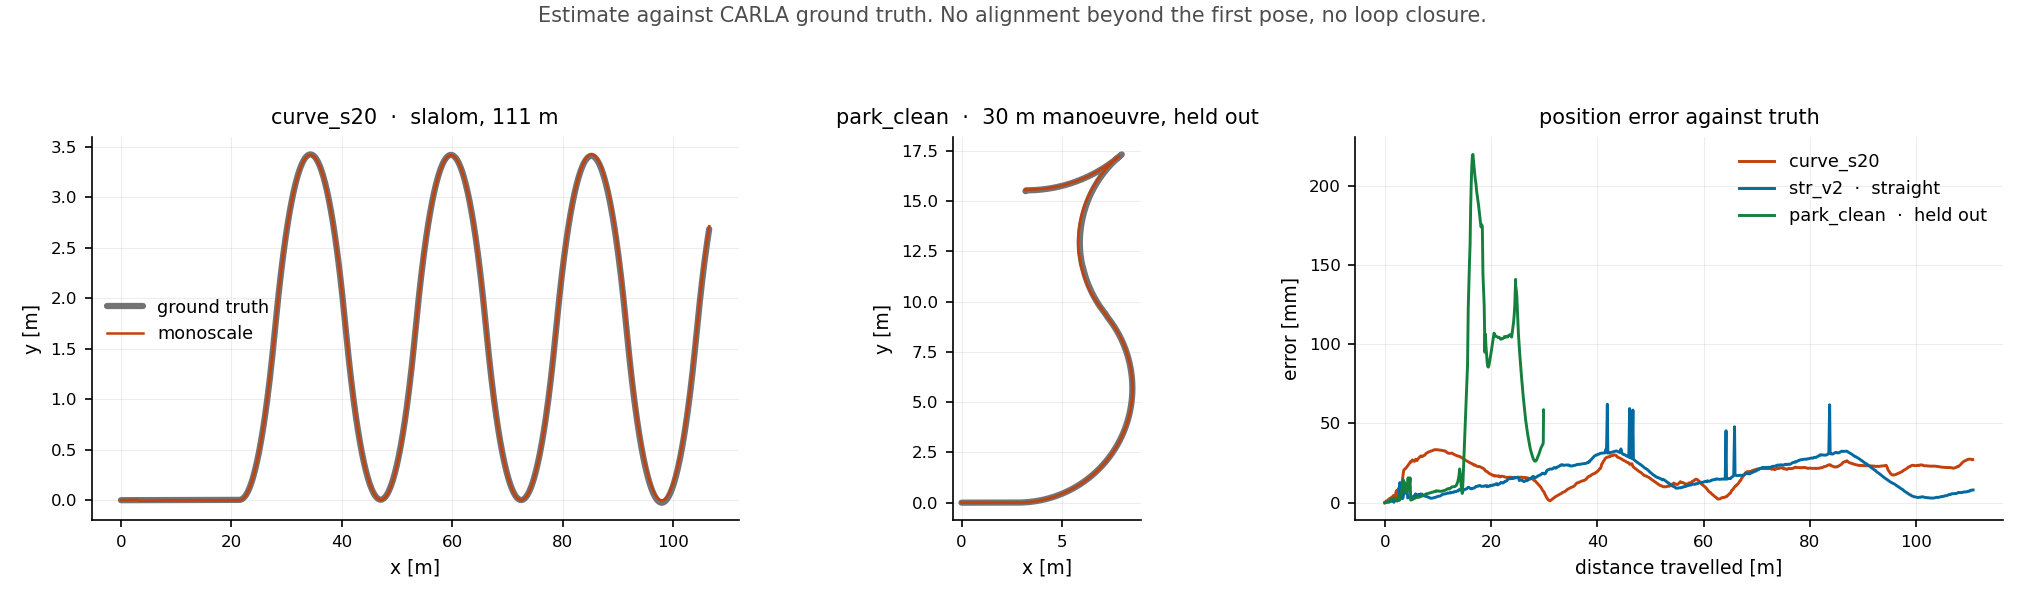
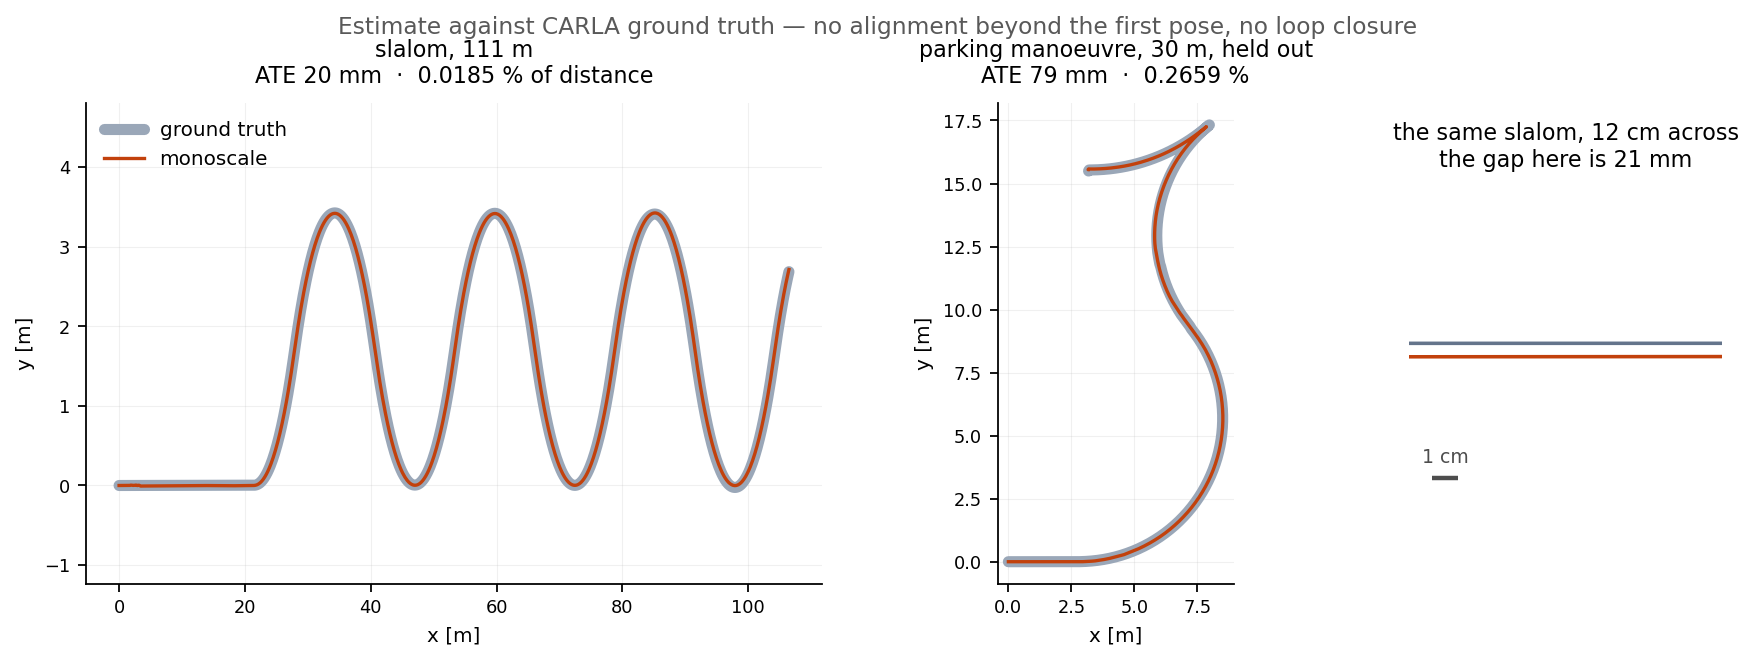
Make the figure show that the error is small, and make it reproducible
The first figure had three panels and the third was a plot of absolute error
against distance, which put a 210 mm spike from the held-out drive at the centre
of the image. The error became the subject. That is the opposite of what the
picture is for, and it was also ugly: equal aspect on a 111 m by 3 m slalom
squashed it to a sliver with the text on top of it.

What it does now. Two panels carry the trajectories at their own scale, where
the estimate and the truth are one line -- which is the result, and which on its
own proves nothing a reader can size. The third zooms until the gap is visible,
puts a scale bar next to it, and says how many millimetres it is: 12 cm across,
a 21 mm gap, a 1 cm bar. Shown rather than asserted, and not flattered -- the
window is chosen from the local error itself, at the point where it is closest
to the drive's own ATE, so it is a typical gap and not the best one.

`plot_trajectories.py` goes into the evaluation package with it. Every other
number in this repository carries the measurement that made it, and a figure
with no script would have been the only thing a reader has to take on trust. It
reads the `.tum` pairs `monoscale_replay --tum` already writes and recomputes
the numbers it prints.

Claude-Session: https://claude.ai/code/session_012ZQwX673naCXfk7whmXv1s

diff --git a/src/monoscale_evaluation/monoscale_evaluation/plot_trajectories.py b/src/monoscale_evaluation/monoscale_evaluation/plot_trajectories.py
@@ -1,0 +1,150 @@
+"""The figure on the front page, from the trajectories the benchmark produces.
+
+Everything else in this repository carries the measurement that made it, and a
+picture with no script would be the one thing a reader has to take on trust. So
+this is here, it reads the same `.tum` pairs `monoscale_replay --tum` writes,
+and it recomputes the numbers it prints rather than being handed them.
+
+    python3 plot_trajectories.py <slalom_dir> <park_dir> <out.png>
+
+Three panels, and the third is the point. At the scale of a 111 m drive the
+estimate and the truth are one line, which says nothing a reader can size; the
+third panel zooms until the gap is visible and puts a scale bar next to it, so
+the error is shown rather than asserted. The window is chosen from the local
+error itself -- six times it -- so the panel neither flatters the result by
+zooming out nor exaggerates it by zooming in.
+"""
+import sys
+
+import numpy as np
+
+TRUTH = '#9aa7b8'
+ESTIMATE = '#c2410c'
+
+
+def load(path):
+    """x, y out of a TUM-format trajectory."""
+    out = []
+    for line in open(path):
+        if line.startswith('#'):
+            continue
+        field = line.split()
+        if len(field) >= 3:
+            out.append((float(field[1]), float(field[2])))
+    return np.array(out)
+
+
+def pair(directory):
+    """Estimate and truth from one output directory, both from their first pose.
+
+    No alignment beyond that: the first pose is the common origin and everything
+    after it is what the estimator produced.
+    """
+    estimate = load(f'{directory}/estimate.tum')
+    truth = load(f'{directory}/truth.tum')
+    count = min(len(estimate), len(truth))
+    estimate, truth = estimate[:count], truth[:count]
+    return estimate - estimate[0], truth - truth[0]
+
+
+def errors(estimate, truth):
+    return np.hypot(estimate[:, 0] - truth[:, 0], estimate[:, 1] - truth[:, 1])
+
+
+def ate(estimate, truth):
+    return float(np.sqrt((errors(estimate, truth) ** 2).mean()))
+
+
+def travelled(truth):
+    return float(np.hypot(np.diff(truth[:, 0]), np.diff(truth[:, 1])).sum())
+
+
+def main(argv):
+    if len(argv) != 4:
+        print(__doc__)
+        return 1
+    slalom_dir, park_dir, out = argv[1], argv[2], argv[3]
+
+    import matplotlib
+    matplotlib.use('Agg')
+    import matplotlib.pyplot as plt
+
+    figure = plt.figure(figsize=(13.2, 3.9))
+    grid = figure.add_gridspec(1, 3, width_ratios=[2.35, 1.0, 1.0], wspace=0.30)
+    wide, square, close = (figure.add_subplot(grid[i]) for i in range(3))
+
+    estimate, truth = pair(slalom_dir)
+    wide.plot(truth[:, 0], truth[:, 1], color=TRUTH, lw=5.0,
+              solid_capstyle='round', label='ground truth')
+    wide.plot(estimate[:, 0], estimate[:, 1], color=ESTIMATE, lw=1.5,
+              label='monoscale')
+    distance = travelled(truth)
+    wide.set_title(
+        f'slalom, {distance:.0f} m\n'
+        f'ATE {ate(estimate, truth) * 1000:.0f} mm  ·  '
+        f'{ate(estimate, truth) / distance * 100:.4f} % of distance',
+        fontsize=10, pad=9)
+    wide.legend(fontsize=9, frameon=False, loc='upper left')
+    span = truth[:, 1].max() - truth[:, 1].min()
+    wide.set_ylim(truth[:, 1].min() - 0.35 * span, truth[:, 1].max() + 0.40 * span)
+
+    held, held_truth = pair(park_dir)
+    square.plot(held_truth[:, 0], held_truth[:, 1], color=TRUTH, lw=5.0,
+                solid_capstyle='round')
+    square.plot(held[:, 0], held[:, 1], color=ESTIMATE, lw=1.5)
+    square.set_aspect('equal')
+    held_distance = travelled(held_truth)
+    square.set_title(
+        f'parking manoeuvre, {held_distance:.0f} m, held out\n'
+        f'ATE {ate(held, held_truth) * 1000:.0f} mm  ·  '
+        f'{ate(held, held_truth) / held_distance * 100:.4f} %',
+        fontsize=10, pad=9)
+
+    # Where the local error is closest to the drive's own ATE, so the zoom shows
+    # a typical gap rather than the best or the worst of it.
+    local = errors(estimate, truth)
+    at = int(np.argmin(np.abs(local - ate(estimate, truth))))
+    half = 3.0 * local[at]
+    cx, cy = truth[at, 0], truth[at, 1]
+    close.plot(truth[:, 0], truth[:, 1], color='#64748b', lw=1.6)
+    close.plot(estimate[:, 0], estimate[:, 1], color=ESTIMATE, lw=1.6)
+    close.set_xlim(cx - half, cx + half)
+    close.set_ylim(cy - half, cy + half)
+    close.set_aspect('equal')
+    close.set_title(
+        f'the same slalom, {2 * half * 100:.0f} cm across\n'
+        f'the gap here is {local[at] * 1000:.0f} mm',
+        fontsize=10, pad=9)
+    bar = 10.0 ** np.floor(np.log10(half))
+    close.plot([cx - half * 0.85, cx - half * 0.85 + bar],
+               [cy - half * 0.86, cy - half * 0.86],
+               color='0.3', lw=2.0, solid_capstyle='butt')
+    close.text(cx - half * 0.85 + bar / 2, cy - half * 0.76,
+               f'{bar * 100:.0f} cm', ha='center', fontsize=8.5, color='0.3')
+    close.set_xticks([])
+    close.set_yticks([])
+
+    for axis in (wide, square):
+        axis.grid(alpha=0.18, lw=0.5)
+        axis.tick_params(labelsize=8)
+        axis.set_xlabel('x [m]', fontsize=9)
+        axis.set_ylabel('y [m]', fontsize=9)
+    for axis in (wide, square, close):
+        for side in ('top', 'right'):
+            axis.spines[side].set_visible(False)
+    for side in ('bottom', 'left'):
+        close.spines[side].set_visible(False)
+
+    figure.suptitle(
+        'Estimate against CARLA ground truth — no alignment beyond the first '
+        'pose, no loop closure',
+        fontsize=10.5, color='0.35', y=1.02)
+    figure.savefig(out, dpi=160, bbox_inches='tight')
+    print(f'{out}: slalom ATE {ate(estimate, truth) * 1000:.1f} mm over '
+          f'{distance:.1f} m, held-out ATE {ate(held, held_truth) * 1000:.1f} mm '
+          f'over {held_distance:.1f} m')
+    return 0
+
+
+if __name__ == '__main__':
+    sys.exit(main(sys.argv))

diff --git a/README.md b/README.md
@@ -20,6 +20,9 @@ parameter was ever chosen against.
 
 ![Estimate against ground truth](media/trajectories.png)
 
+At the scale of the drive the two lines are one. The right-hand panel zooms until the gap is visible and puts a scale bar beside it, because a figure where nothing can be seen proves nothing. Regenerate it with
+`monoscale_evaluation/plot_trajectories.py <slalom_dir> <park_dir> <out.png>` from any pair of `--tum` outputs.
+
 The held-out figure is the one to read. Two drives are kept out of every sweep
 and every judgement, and they earn their place: in one week they refused four
 changes that had won on the tuning set, including the removal of the last fitted
